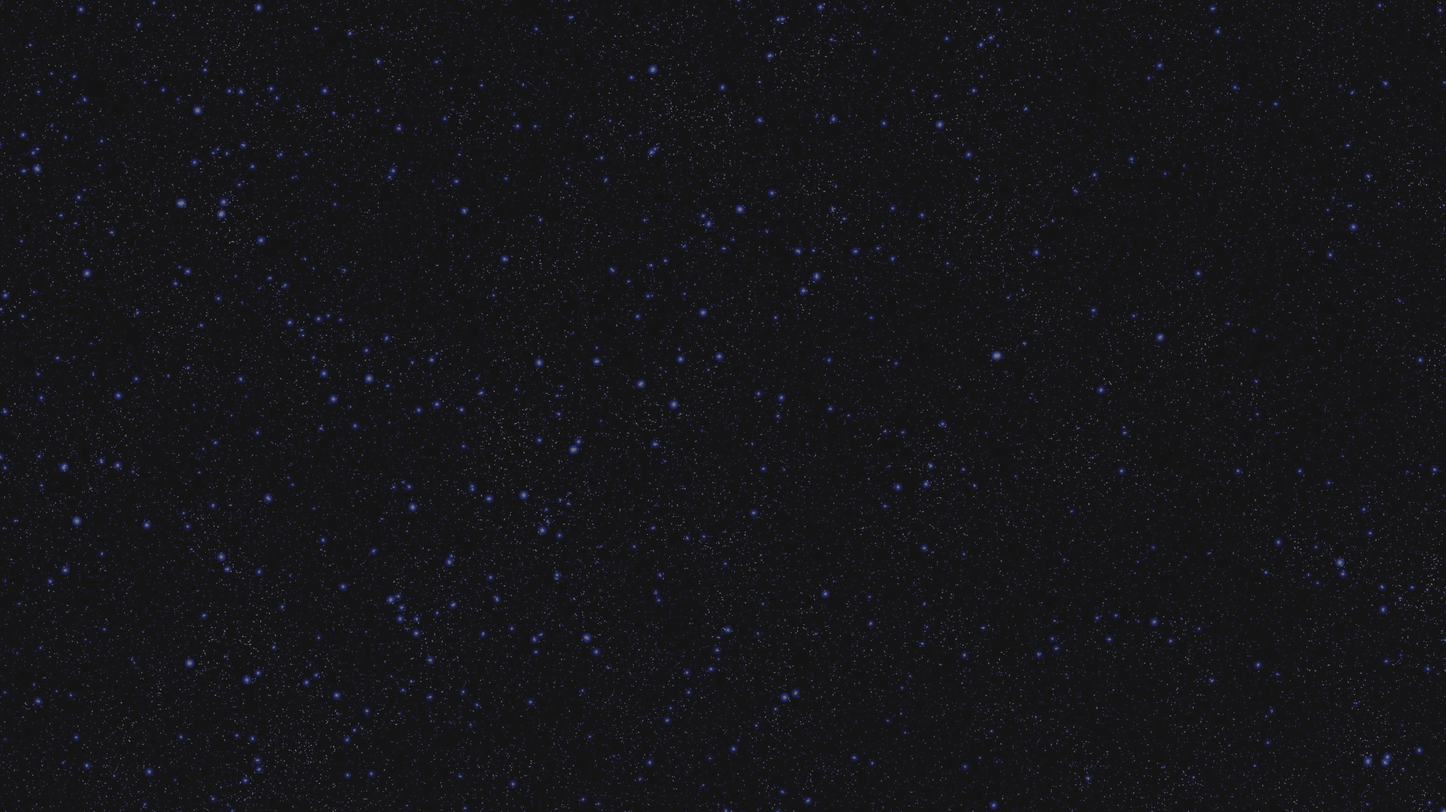
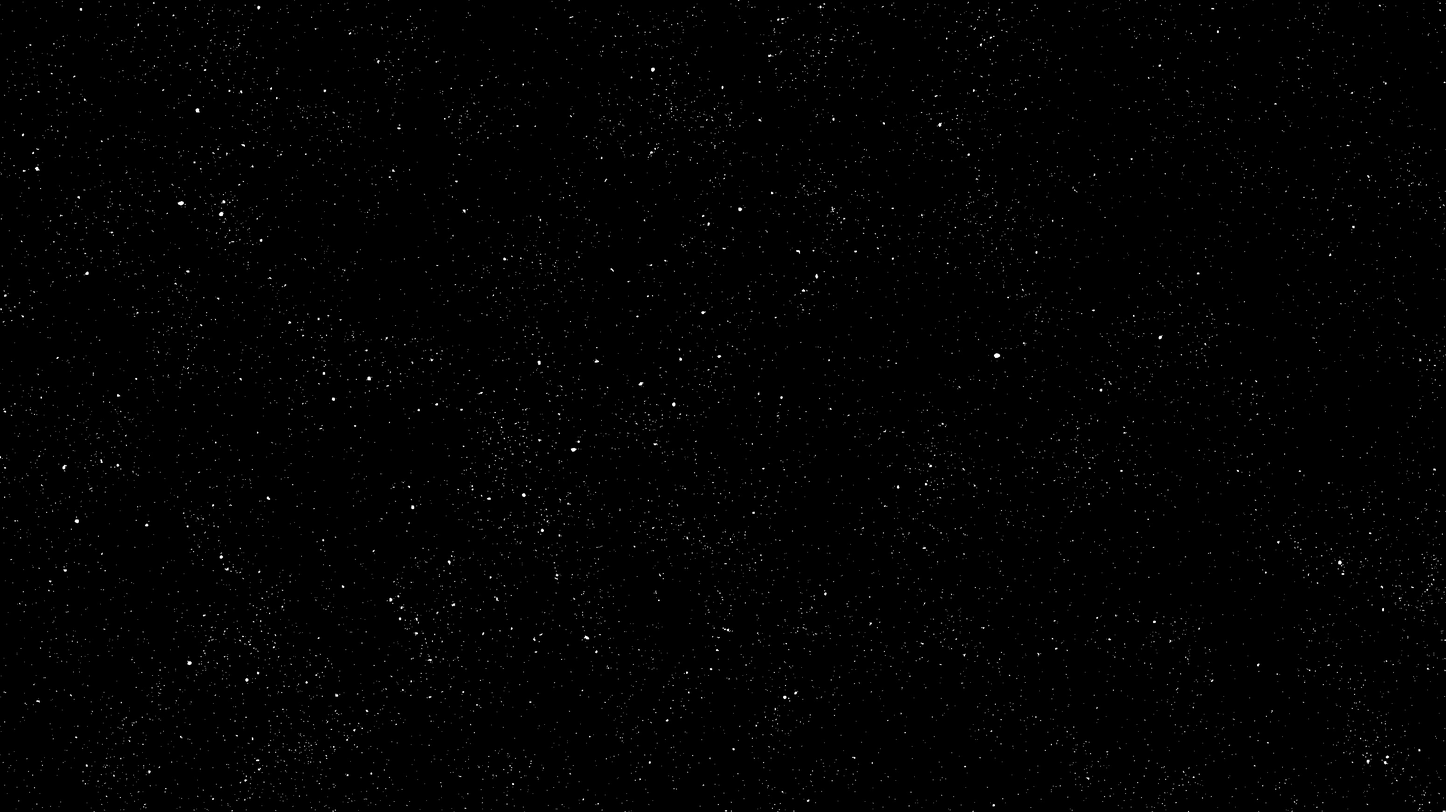
.

Changed region(s): [[0.0, 0.0, 1.0, 1.0]]

diff --git a/src/Prompt.svelte b/src/Prompt.svelte
@@ -2,7 +2,7 @@
 	import { fade } from 'svelte/transition';
 	import { ss } from './state.svelte';
 
-	const hi = '<span style="color: #ffe4aae0;">';
+	const hi = '<span style="color: #fff;">';
 	const LAUNCH = $derived(`<span>press  ${hi}SPACE</span>  to start</span>`);
 	const RESTART = $derived(`<span>press  ${hi}SPACE</span>  to restart</span>`);
 	const DISMISS = $derived(`<span style='font-family: Quicksand;'>press  ${hi}ESC</span>  to dismiss</span>`);

diff --git a/src/Dialog.svelte b/src/Dialog.svelte
@@ -4,7 +4,7 @@
 
 	const ul = '<ul style="margin: 25px 0 0 0;">';
 	const li = '<li style="margin: 12px 0 0 -20px; color: var(--gold);">';
-	const gold = '<span style="color:#ffe4aae0">';
+	const gold = '<span style="color:#fff">';
 	const orange = '<span style="color: var(--orange)">';
 	const green = '<span style="color: var(--green)">';
 	const blue = '<span style="color: var(--blue);">';

diff --git a/src/routes/+layout.svelte b/src/routes/+layout.svelte
@@ -15,15 +15,9 @@
 		body {
 			margin: 0;
 			overflow: hidden;
-			--background: #021631;
+			--background: #000;
 			background: var(--background);
-			--blue: #aadaffa0;
-			color: var(--blue);
-			--orange: #f79600;
-			--tan: #998c67;
-			--gold: #ffe4aae0;
-			--lightblue: #aadaff;
-			--green: #c6ffaae8;
+			color: #fff;
 			font-family: Quicksand;
 		}
 

diff --git a/src/const.js b/src/const.js
@@ -1,4 +1,4 @@
-export const APP_KEY = 'CONTAGION V1';
+export const APP_KEY = 'PMN V1';
 export const PROMPT_TRANSITION = 300;
 export const PROMPT_RESET_STATS = 'RESET STATS?';
 export const PI_OVER_180 = Math.PI / 180;

diff --git a/src/Info Panel.svelte b/src/Info Panel.svelte
@@ -28,7 +28,7 @@
 		place-items: center;
 		gap: 5px;
 		color: var(--lightblue);
-		opacity: 0.7;
+		/* opacity: 0.7; */
 		pointer-events: none;
 	}
 
